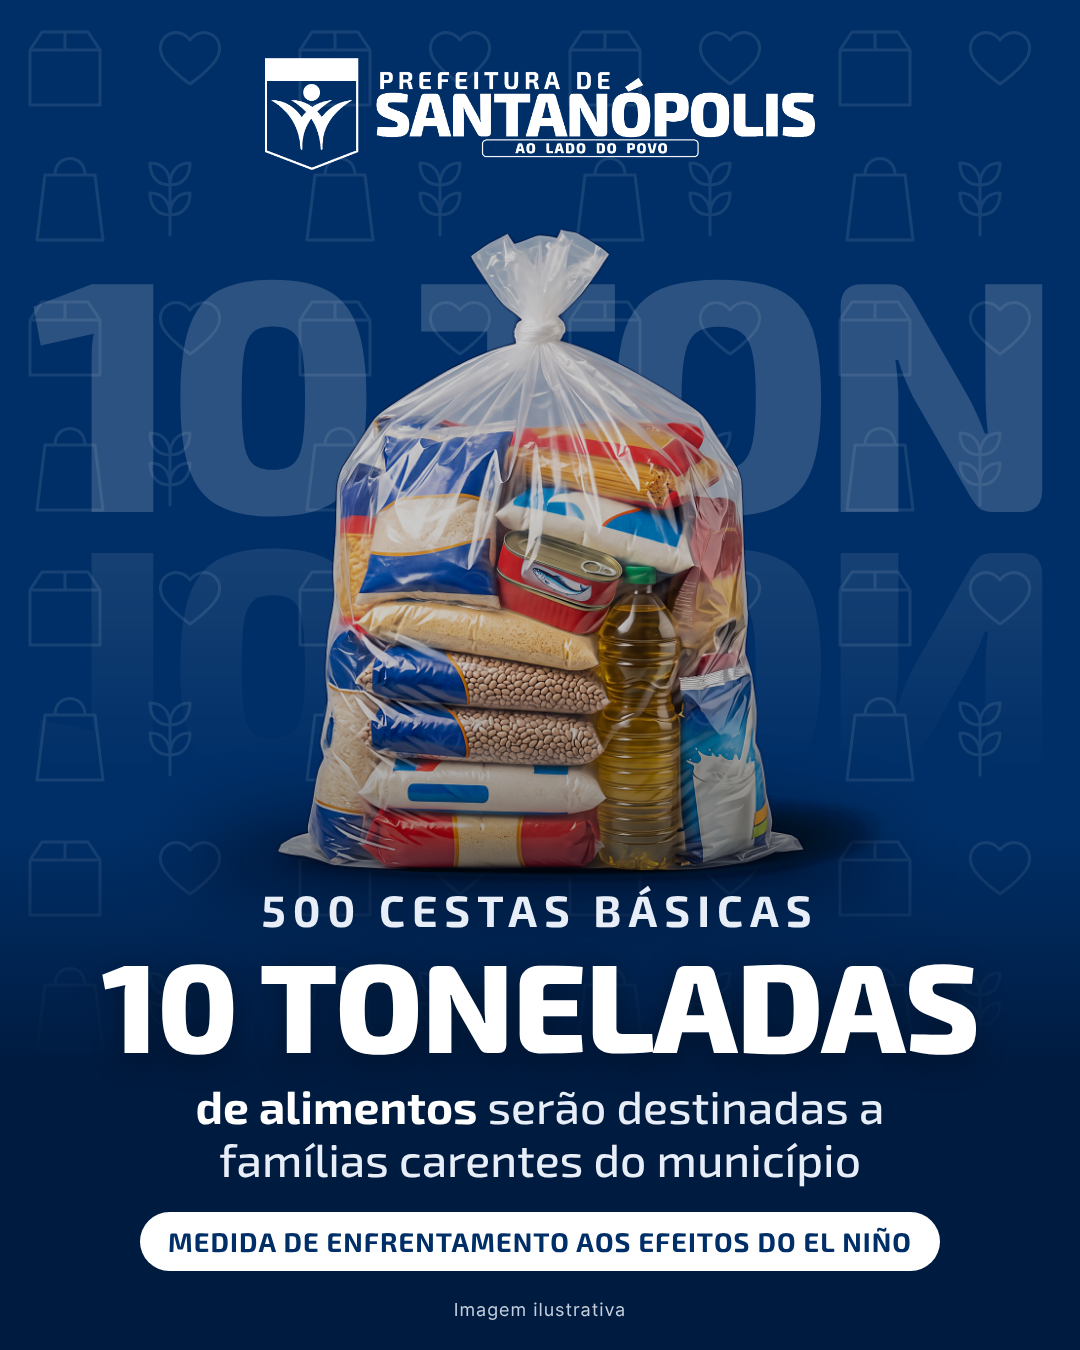
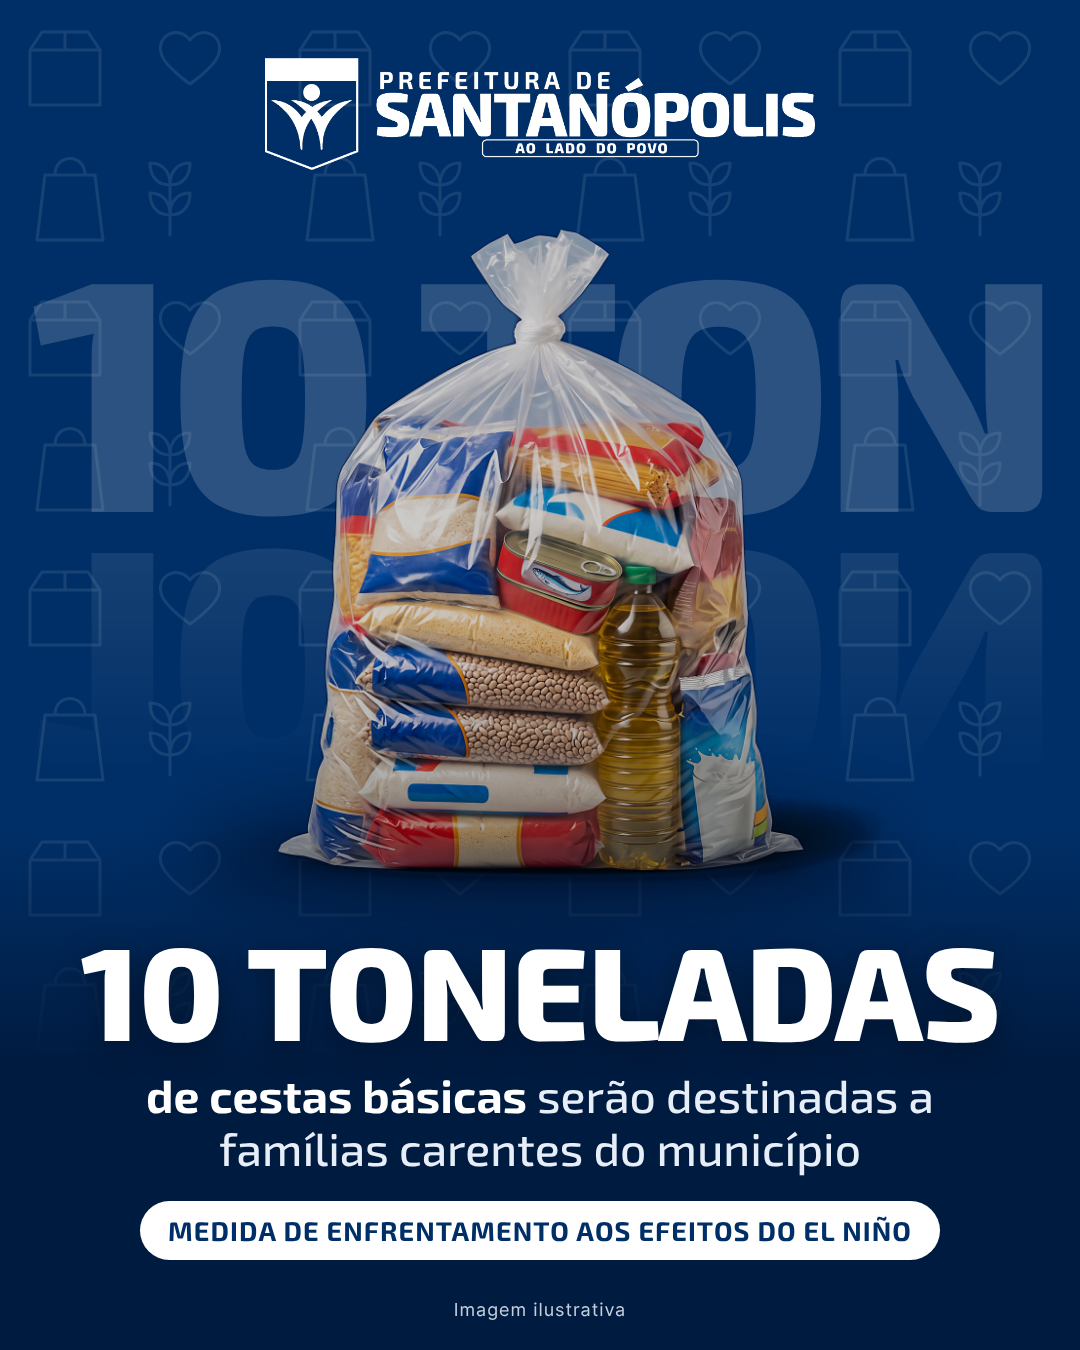
Prefeitura: card das cestas sem a linha das 500 cestas
Claude-Session: https://claude.ai/code/session_01RAcsiCjxcoRFE1mKcnMpXn

Changed region(s): [[0.0611, 0.6533, 0.9472, 0.9644]]

diff --git a/clientes/prefeitura-santanopolis/entregas/2026-11-12-cestas-basicas-el-nino/card.html b/clientes/prefeitura-santanopolis/entregas/2026-11-12-cestas-basicas-el-nino/card.html
@@ -14,9 +14,9 @@ body{width:1080px;height:1350px;position:relative;overflow:hidden;background:var
 .sombra{position:absolute;left:190px;top:800px;width:700px;height:120px;border-radius:50%;background:rgba(0,8,26,.55);filter:blur(34px)}
 .contato{position:absolute;left:285px;top:838px;width:520px;height:36px;border-radius:50%;background:rgba(0,4,16,.9);filter:blur(12px)}
 .base{position:absolute;left:0;right:0;bottom:0;height:520px;background:linear-gradient(to top,#001B40 0,#001B40 55%,transparent 100%)}
-.texto{position:absolute;left:60px;right:60px;top:888px;text-align:center}
+.texto{position:absolute;left:60px;right:60px;top:915px;text-align:center}
 .mais{font:700 44px/1 "Exo 2";letter-spacing:.16em;color:var(--tinta)}
-h1{font:800 126px/1 "Exo 2";letter-spacing:-.01em;margin-top:8px;text-shadow:0 6px 30px rgba(0,0,0,.35)}
+h1{font:800 132px/1 "Exo 2";letter-spacing:-.01em;margin-top:8px;text-shadow:0 6px 30px rgba(0,0,0,.35)}
 .sub{font:700 46px/1.15 "Exo 2";margin-top:14px}
 .sub span{color:var(--tinta);font-weight:500}
 .tag{display:inline-block;margin-top:26px;background:#fff;color:var(--azul);font:700 27px/1 "Exo 2";letter-spacing:.04em;padding:16px 28px;border-radius:999px}
@@ -29,9 +29,8 @@ footer small{font:400 18px Inter;opacity:.85}
 <div class="base"></div>
 <div class="logo"><img src="../../identidade/logo-prefeitura-branco.png" alt=""></div>
 <div class="texto">
-  <div class="mais">500 CESTAS BÁSICAS</div>
   <h1>10 TONELADAS</h1>
-  <div class="sub">de alimentos <span>serão destinadas a<br>famílias carentes do município</span></div>
+  <div class="sub">de cestas básicas <span>serão destinadas a<br>famílias carentes do município</span></div>
   <div class="tag">MEDIDA DE ENFRENTAMENTO AOS EFEITOS DO EL NIÑO</div>
 </div>
 <footer><small>Imagem ilustrativa</small></footer>
